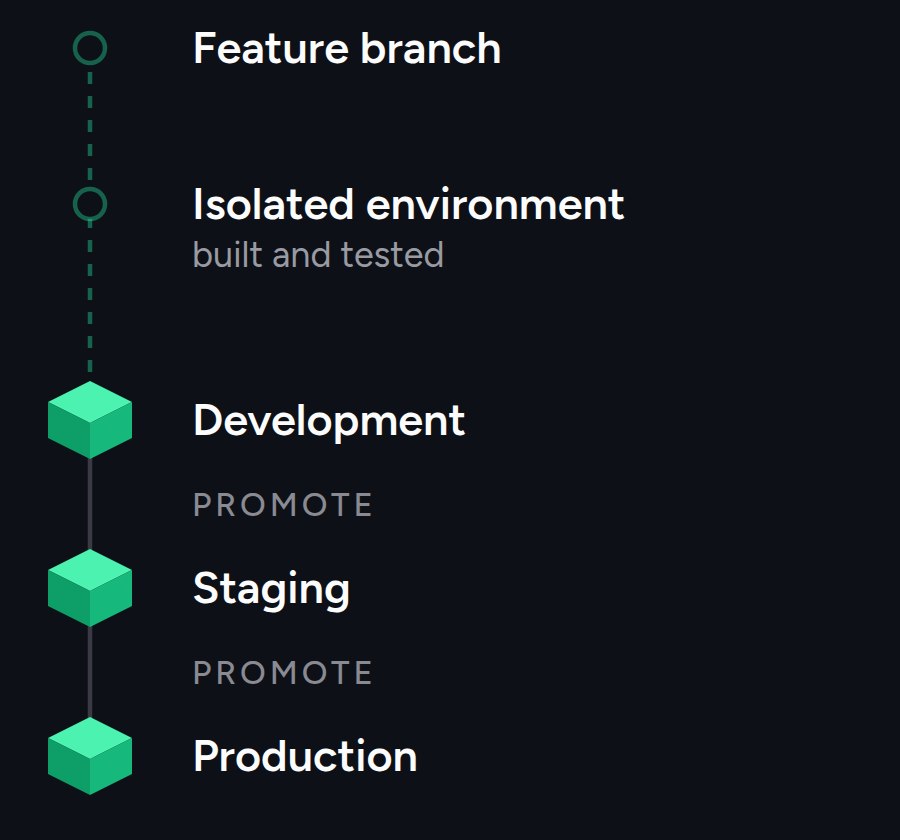
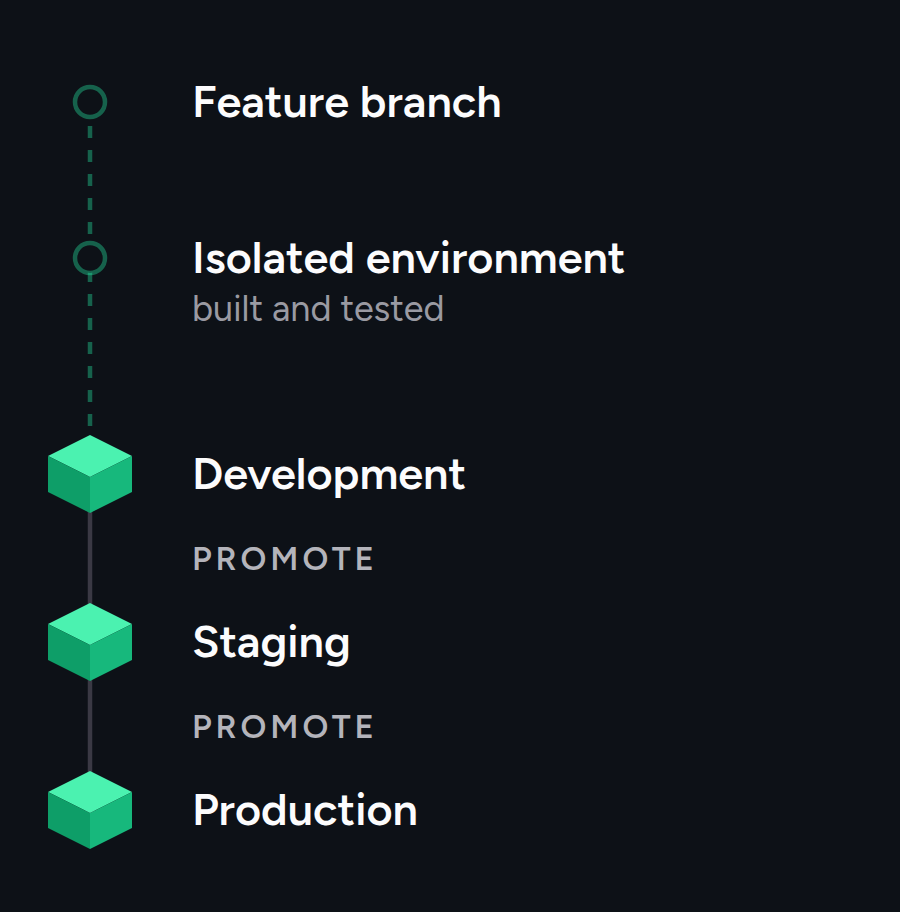
Give the diagrams air, and darken their small-caps labels
Four things seen in the rendered README.

GitHub leaves 16px between a paragraph and the image after it but 24px or more
before the heading that follows, so every diagram sat closer to the text above
it than the text below — worst on core concepts, 16 against 31. `.d` now carries
`padding: 18px 0 6px`, which reads as 34 above and 37 below.

`For decades` and `Increasingly` were 11px uppercase in `dim` (#6B7681 on white)
and did not hold. They and the `promote` labels are `body` at 600 now; the
`kinotic-server` caption moves from `dim` to `muted`, a step lighter than the
lane labels since it is a caption rather than an axis.

`**Kinotic does everything in between.**` loses its bold. It is the fourth beat
of a four-line sequence whose other three are plain, and set in bold right above
a large graphic it read as a caption for the graphic rather than the end of the
sequence.

Every declared height grows by the 24px of padding; `.d` is `border-box`, so
without that the content would have been squeezed instead.

Claude-Session: https://claude.ai/code/session_01EvoZVi9sNowJbKd7zzzNvL

diff --git a/.github/assets/diagrams/diagrams.py b/.github/assets/diagrams/diagrams.py
@@ -90,7 +90,7 @@ def abstraction_layer(t):
            f'<text x="244" y="246" class="t-name-dim">Kubernetes · cloud</text>'
            f'<text x="244" y="263" class="t-sub">networking · storage</text>'
            f'</svg>')
-    return f'<div class="d" style="width:440px;height:292px">{svg}</div>'
+    return f'<div class="d" style="width:440px;height:316px">{svg}</div>'
 
 # ---------------------------------------------------------------- diagram 2
 
@@ -103,7 +103,7 @@ def core_concepts(t):
         f'<div class="card-h">{glyph(17)}<span class="card-t">Project</span></div>'
         f'<div class="chips">' + ''.join(f'<span class="chip">{a}</span>' for a in arts) + '</div>'
         f'</div>' for arts in projects)
-    return (f'<div class="d" style="width:440px;height:256px">'
+    return (f'<div class="d" style="width:440px;height:280px">'
             f'<div class="outer">'
             f'<div class="outer-h">{cluster(26)}'
             f'<span class="outer-t">Application</span></div>'
@@ -134,7 +134,7 @@ def environments(t):
            f'<text x="64" y="81" class="t-name">Isolated environment</text>'
            f'<text x="64" y="97" class="t-sub">built and tested</text>'
            f'{names}{promote}</svg>')
-    return f'<div class="d" style="width:300px;height:280px">{svg}</div>'
+    return f'<div class="d" style="width:300px;height:304px">{svg}</div>'
 
 # ---------------------------------------------------------------- diagram 4
 
@@ -165,7 +165,7 @@ def architecture(t):
              f'preserveAspectRatio="none" aria-hidden="true">'
              f'<path d="M 11 0 L 11 236" stroke="{t["line"]}" stroke-width="1" fill="none"/>'
              f'</svg>')
-    return (f'<div class="d" style="width:440px;height:761px">'
+    return (f'<div class="d" style="width:440px;height:785px">'
             f'<div class="row3 g10">{client_tiles}</div>'
             f'{drops([72, 220, 368], 20)}'
             f'<div class="gw"><span class="mono mono-gw">kinotic-api-gateway</span>'
@@ -196,7 +196,7 @@ def vision(t):
                                ('Production', 0)], True)
     new = lane('Increasingly', [('Human', 0), ('Intent', 1), ('AI agent', 1), ('Software', 0),
                                 ('Production', 0)], False)
-    return f'<div class="d" style="width:440px;height:274px"><div class="lanes">{old}{new}</div></div>'
+    return f'<div class="d" style="width:440px;height:298px"><div class="lanes">{old}{new}</div></div>'
 
 # ================================================================ wide variants
 # Same content and type scale as the narrow set, laid out for a desktop column.
@@ -227,7 +227,7 @@ def w_abstraction_layer(t):
            f'<text x="312" y="278" class="t-name-dim">Kubernetes · cloud</text>'
            f'<text x="312" y="295" class="t-sub">networking · storage</text>'
            f'</svg>')
-    return f'<div class="d" style="width:560px;height:322px">{svg}</div>'
+    return f'<div class="d" style="width:560px;height:346px">{svg}</div>'
 
 
 def w_core_concepts(t):
@@ -238,7 +238,7 @@ def w_core_concepts(t):
         f'<div class="card-h">{glyph(17)}<span class="card-t">Project</span></div>'
         f'<div class="chips chips-col">' + ''.join(f'<span class="chip">{a}</span>' for a in arts)
         + '</div></div>' for arts in projects)
-    return (f'<div class="d" style="width:620px;height:178px">'
+    return (f'<div class="d" style="width:620px;height:202px">'
             f'<div class="outer">'
             f'<div class="outer-h outer-h-row">{cluster(26)}'
             f'<span class="outer-t">Application</span>'
@@ -262,7 +262,7 @@ def w_environments(t):
            f'aria-label="A feature branch gets an isolated environment that is built and tested, '
            f'then promoted through development, staging and production">'
            f'{drop}{rail}{cubes}{names}{promote}</svg>')
-    return (f'<div class="d" style="width:620px;height:237px">'
+    return (f'<div class="d" style="width:620px;height:261px">'
             f'<div class="branch branch-row">'
             f'<span class="pill">Feature branch</span><span class="arrow">&#8594;</span>'
             f'<span class="pill pill-mint pill-row">Isolated environment'
@@ -304,7 +304,7 @@ def w_architecture(t):
         return f'<svg width="{w}" height="{h}" viewBox="0 0 {w} {h}" aria-hidden="true">{p}</svg>'
 
     # module tiles are 274 wide inside a panel padded 16 → centres 153, 440, 727
-    return (f'<div class="d" style="width:{W}px;height:474px">'
+    return (f'<div class="d" style="width:{W}px;height:498px">'
             f'<div class="row3 g16">{client_tiles}</div>'
             f'{drops([148, 440, 732], 22)}'
             f'<div class="gw gw-row"><span class="mono mono-gw">kinotic-api-gateway</span>'
@@ -334,7 +334,7 @@ def w_vision(t):
                                ('Production', 0)], True)
     new = lane('Increasingly', [('Human', 0), ('Intent', 1), ('AI agent', 1), ('Software', 0),
                                 ('Production', 0)], False)
-    return (f'<div class="d" style="width:660px;height:84px">'
+    return (f'<div class="d" style="width:660px;height:108px">'
             f'<div class="lanes lanes-row">{old}{new}</div></div>')
 
 # `.pane-l` / `.pane-d` are only a scoping hook: every colour lives in scoped() below,
@@ -342,7 +342,7 @@ def w_vision(t):
 CSS = """
 *{box-sizing:border-box}
 body{margin:0;font-family:'Figtree',system-ui,sans-serif}
-.d{position:relative}
+.d{position:relative;padding:18px 0 6px}
 .d>svg{display:block}
 .g{display:block;flex:none}
 """
@@ -356,7 +356,7 @@ def scoped(t):
     p = f'.pane-{t["name"][0]}'
     return f"""
 {p} .t-cap{{font:500 12px 'Figtree',sans-serif;fill:{t['body']}}}
-{p} .t-cap-up{{font:500 11px 'Figtree',sans-serif;letter-spacing:.12em;text-transform:uppercase;fill:{t['dim']}}}
+{p} .t-cap-up{{font:600 11px 'Figtree',sans-serif;letter-spacing:.12em;text-transform:uppercase;fill:{t['body']}}}
 {p} .t-name{{font:600 15px 'Figtree',sans-serif;fill:{t['heading']}}}
 {p} .t-name-dim{{font:600 15px 'Figtree',sans-serif;fill:{t['body']}}}
 {p} .t-sub{{font:400 12px 'Figtree',sans-serif;fill:{t['muted']}}}
@@ -400,11 +400,11 @@ flex-direction:column;gap:2px}}
 {p} .server{{border:1px solid {t['line']};border-radius:12px;padding:12px 14px 14px;
 background:{t['panel']}}}
 {p} .server-tab{{display:block;margin-bottom:9px;
-font:500 11px 'Fira Code',monospace;letter-spacing:.04em;color:{t['dim']}}}
+font:500 11px 'Fira Code',monospace;letter-spacing:.04em;color:{t['muted']}}}
 {p} .lanes{{display:grid;grid-template-columns:repeat(2,minmax(0,1fr));gap:24px}}
 {p} .lane{{display:flex;flex-direction:column;gap:10px}}
-{p} .lane-l{{font:500 11px 'Figtree',sans-serif;letter-spacing:.12em;text-transform:uppercase;
-color:{t['dim']}}}
+{p} .lane-l{{font:600 11px 'Figtree',sans-serif;letter-spacing:.12em;text-transform:uppercase;
+color:{t['body']}}}
 {p} .lane-c{{display:flex;flex-direction:column;align-items:center;gap:3px}}
 {p} .v-chip{{font:600 13px 'Figtree',sans-serif;color:{t['text']};border:1px solid {t['line']};
 border-radius:8px;padding:8px 12px;background:{t['chip']};width:100%;text-align:center}}
@@ -432,15 +432,15 @@ border-radius:8px;padding:8px 12px;background:{t['chip']};width:100%;text-align:
 # key, title, narrow (fn, w, h), wide (fn, w, h)
 SPECS = [
     ('abstraction-layer', 'A different abstraction layer',
-     (abstraction_layer, 440, 292), (w_abstraction_layer, 560, 322)),
+     (abstraction_layer, 440, 316), (w_abstraction_layer, 560, 346)),
     ('core-concepts', 'Core concepts',
-     (core_concepts, 440, 256), (w_core_concepts, 620, 178)),
+     (core_concepts, 440, 280), (w_core_concepts, 620, 202)),
     ('environments', 'CI/CD environments',
-     (environments, 300, 280), (w_environments, 620, 237)),
+     (environments, 300, 304), (w_environments, 620, 261)),
     ('architecture', 'Architecture',
-     (architecture, 440, 761), (w_architecture, 880, 474)),
+     (architecture, 440, 785), (w_architecture, 880, 498)),
     ('vision', 'The vision',
-     (vision, 440, 274), (w_vision, 660, 84)),
+     (vision, 440, 298), (w_vision, 660, 108)),
 ]
 
 ROOT = os.path.dirname(os.path.dirname(os.path.dirname(os.path.dirname(

diff --git a/.github/assets/README.md b/.github/assets/README.md
@@ -79,6 +79,11 @@ neutral ramp what a caller brings, `#2B2A32` the infrastructure underneath — d
 themes, because it is not ours. Red appears only on the AI-agent cube, matching
 `marks/humans-and-agents.svg`; it never marks a component.
 
+**18px of air on top, 6px underneath.** GitHub leaves 16px between a paragraph and the
+image after it but 24px or more before the heading that follows, so a diagram with no
+padding of its own sits closer to the text above than the text below. The padding is inside
+`.d`, which is `border-box`, so every declared height carries the 24px.
+
 **Isometry only where it means something.** The abstraction layer is a stack, so it is drawn
 as isometric slabs; promotion moves forward, so its environments are cubes on a line.
 Diagrams that are really lists — core concepts, architecture — use panels with a cube glyph

diff --git a/README.md b/README.md
@@ -81,7 +81,7 @@ Kubernetes made infrastructure orchestration programmable.
 
 AI coding systems are making software creation nearly free.
 
-**Kinotic does everything in between.**
+Kinotic does everything in between.
 
 <div align="center">
 
